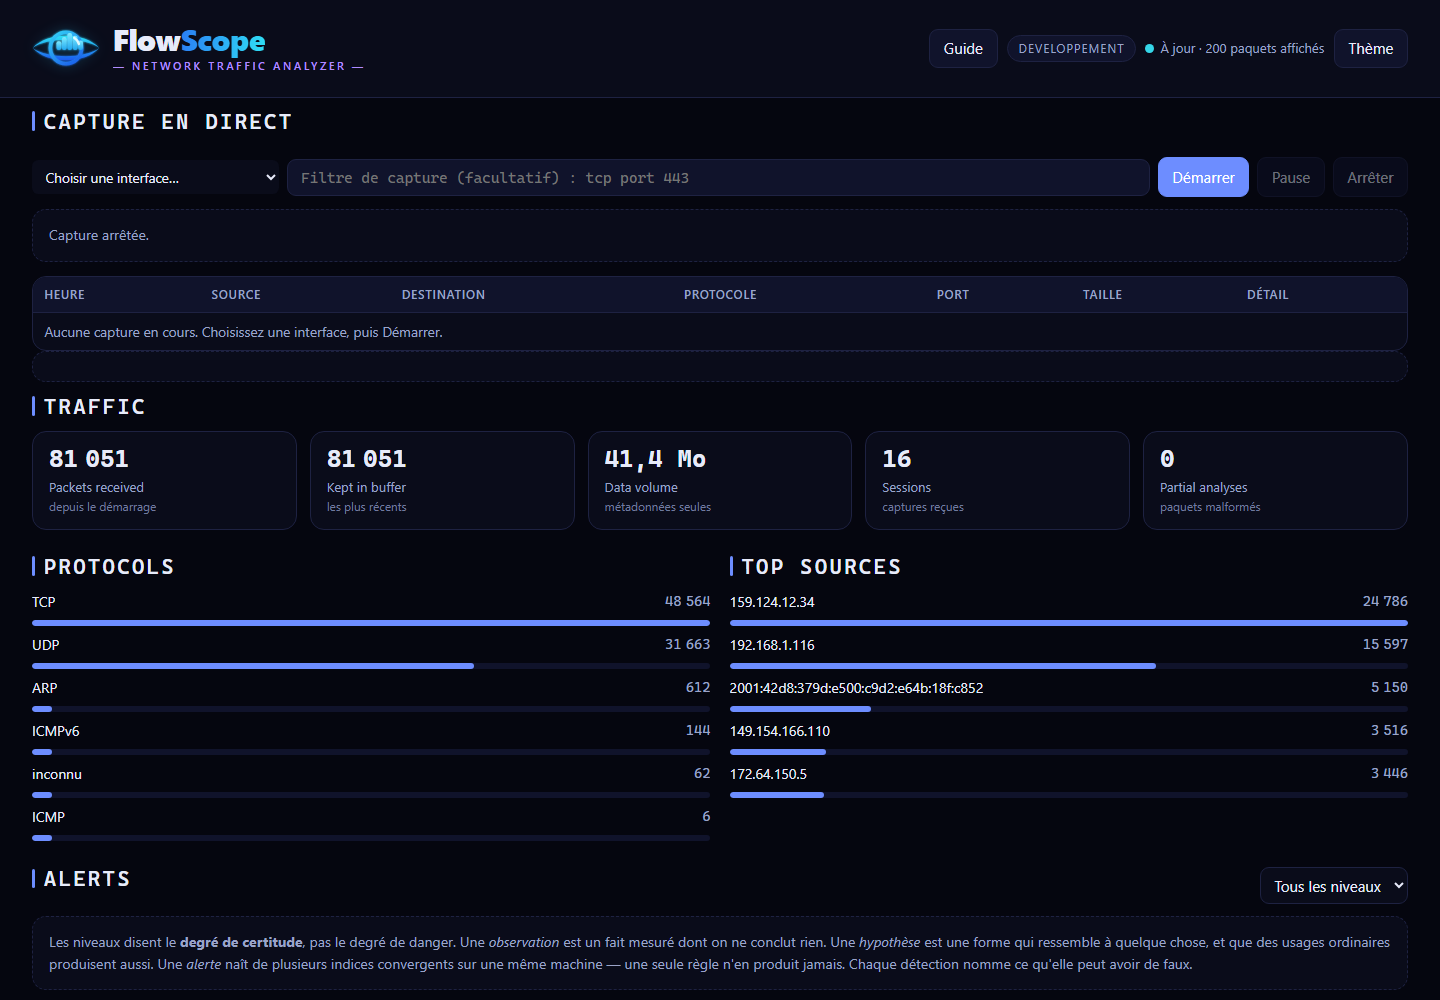
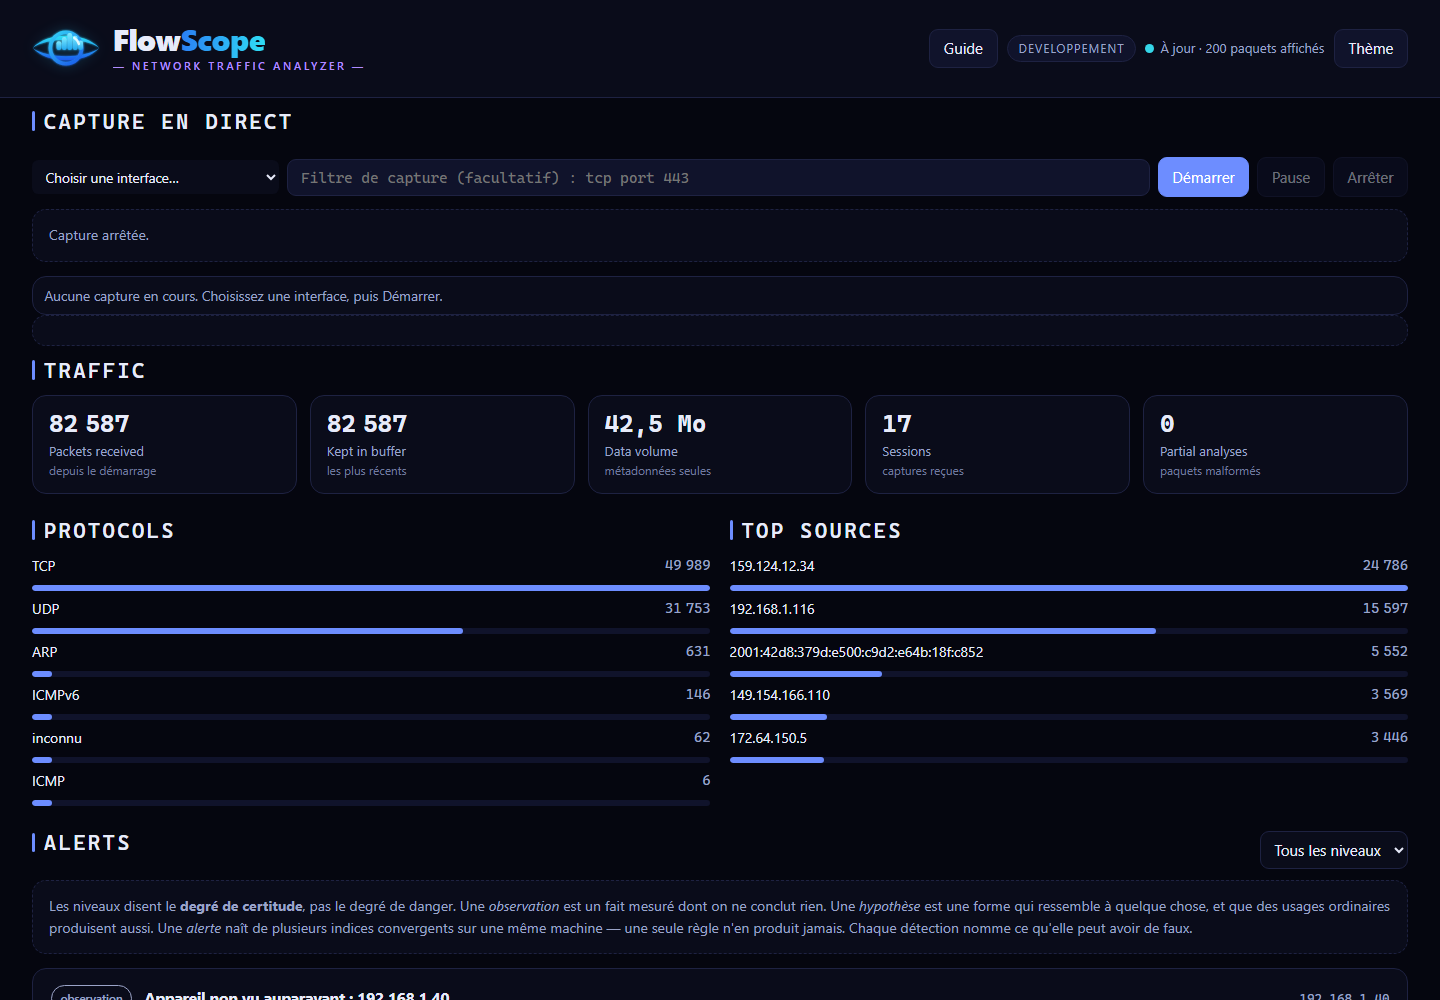
feat(web): l'en-tete du tableau des paquets ne s'affiche plus
A LA DEMANDE DE L'AUTEUR DU PROJET : la rangee HEURE / SOURCE / DESTINATION / PROTOCOLE / PORT /
TAILLE / DETAIL ne s'affiche plus au-dessus de la liste des paquets recus en direct.

MASQUEE, PAS SUPPRIMEE - ET LA DIFFERENCE COMPTE. Ces cellules sont des <th scope="col"> : c'est
par elles qu'un lecteur d'ecran annonce « Protocole », « Destination » avant chaque valeur lue.
Les retirer du document aurait supprime une information dont depend une partie des lecteurs, pour
un gain purement visuel. La classe `sr-only` les sort de l'affichage sans les sortir du document :
la rangee disparait de l'ecran, l'information reste disponible.

`sr-only` existait deja dans la feuille de style, et servait deja au <caption> juste au-dessus, qui
decrit la meme table - meme mecanisme, meme raison.

Le tableau lui-meme n'a pas bouge : ses sept colonnes, son corps, son message d'attente.

58/58 controles navigateur.

diff --git a/web/templates/index.html b/web/templates/index.html
@@ -204,7 +204,11 @@
     <div class="tableau-enveloppe tableau-enveloppe--vivant">
       <table class="tableau" id="tableau-vivant">
         <caption class="sr-only">Paquets reçus en direct, du plus récent au plus ancien</caption>
-        <thead>
+        {# L'en-tête est MASQUÉ À L'ŒIL, PAS SUPPRIMÉ, à la demande de l'auteur du projet.
+           Retirer les <th> aurait cassé la lecture au lecteur d'écran : c'est par eux qu'il
+           annonce « Protocole », « Destination » avant chaque valeur. `sr-only` les sort de
+           l'affichage sans les sortir du document — la rangée disparaît, l'information reste. #}
+        <thead class="sr-only">
           <tr>
             <th scope="col">Heure</th>
             <th scope="col">Source</th>
